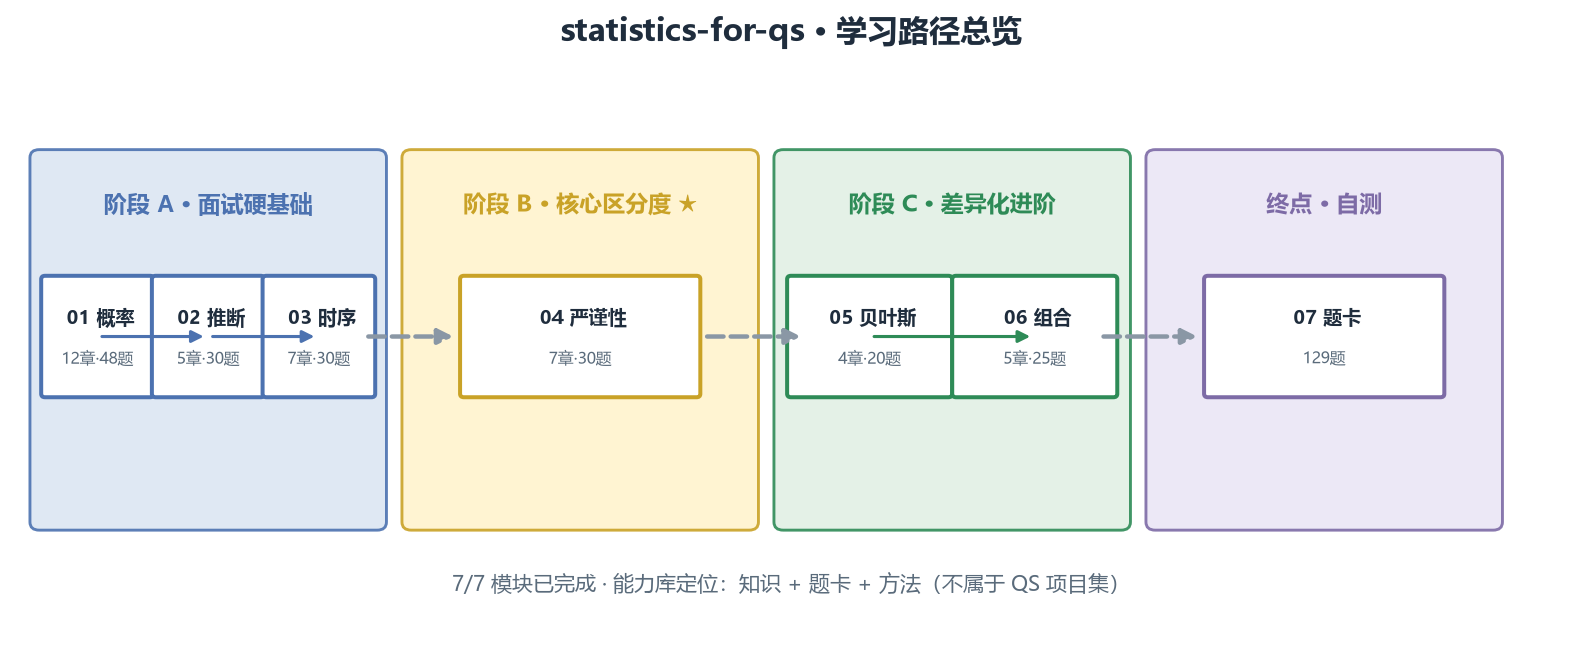
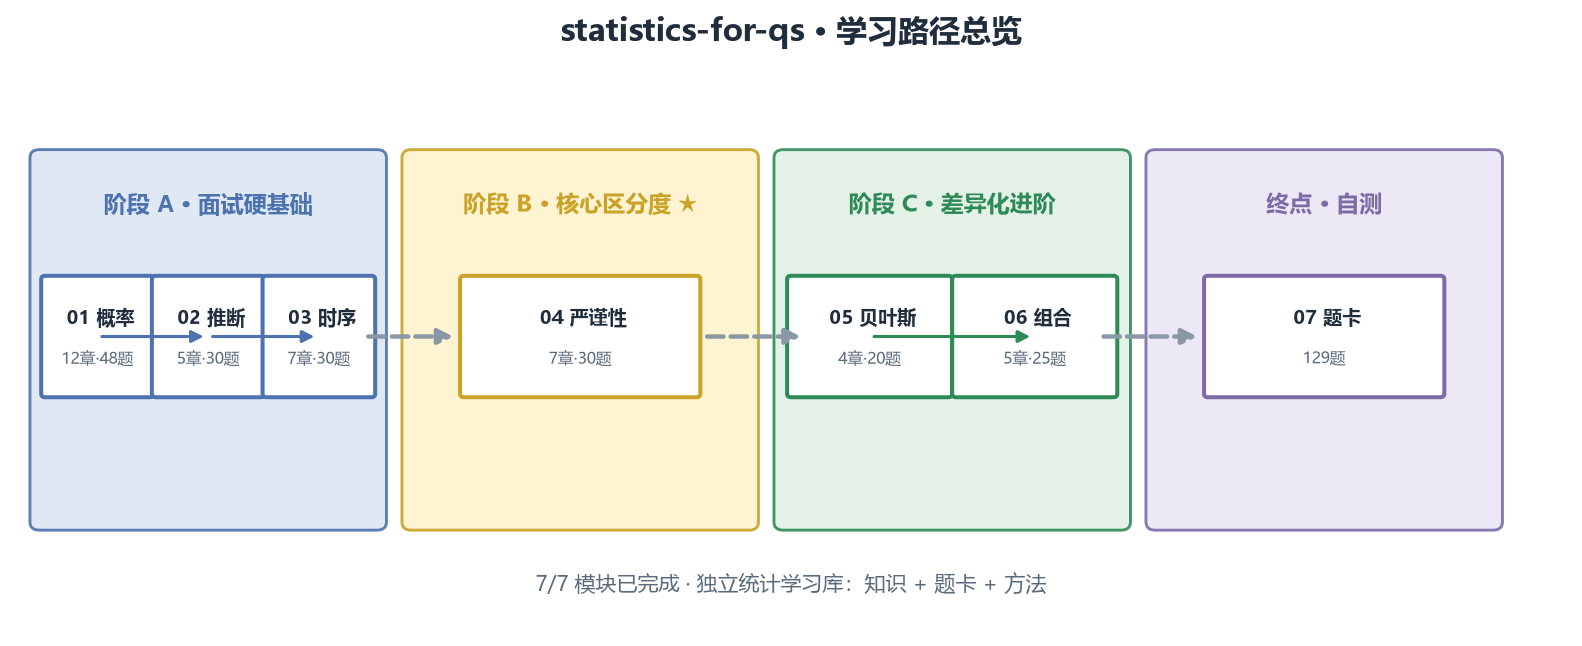
Regenerate roadmap with neutral footer note

Changed region(s): [[0.3097, 0.8669, 0.7124, 0.9288]]

diff --git a/tools/make_path_diagrams.py b/tools/make_path_diagrams.py
@@ -92,7 +92,7 @@ draw(
     ],
     "statistics-for-qs · 学习路径总览",
     "path_root.png",
-    note="7/7 模块已完成 · 能力库定位：知识 + 题卡 + 方法（不属于 QS 项目集）",
+    note="7/7 模块已完成 · 独立统计学习库：知识 + 题卡 + 方法",
 )
 
 # 01 概率
